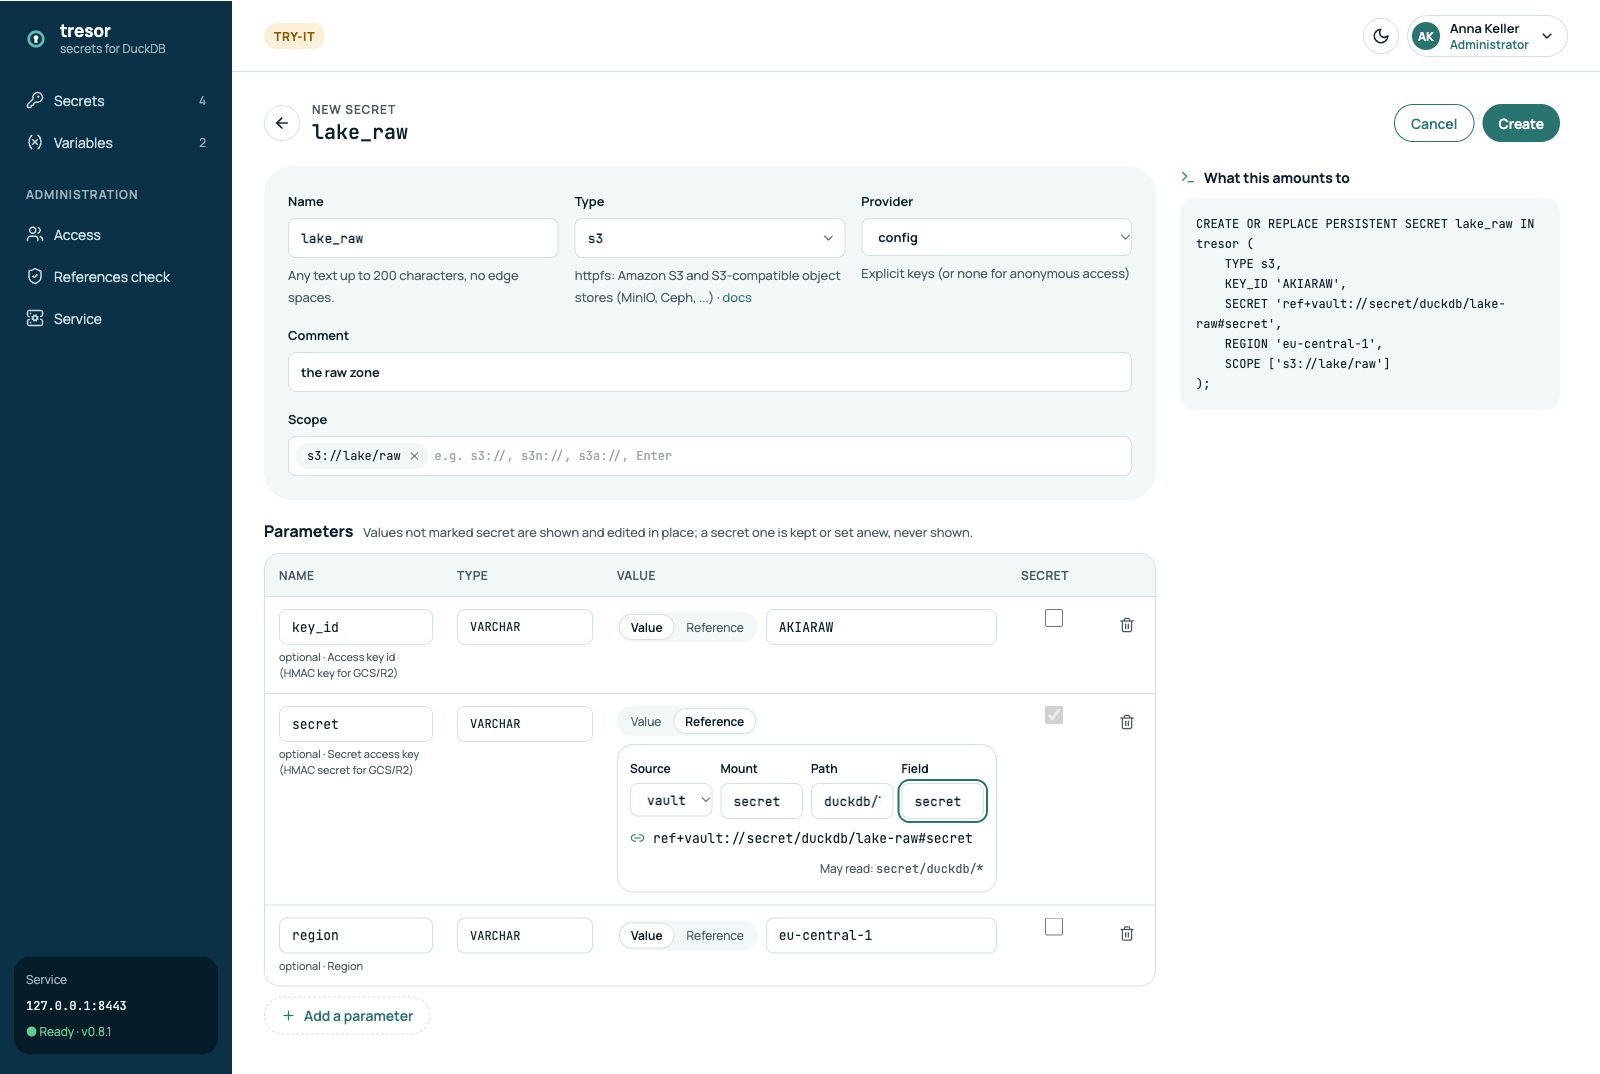
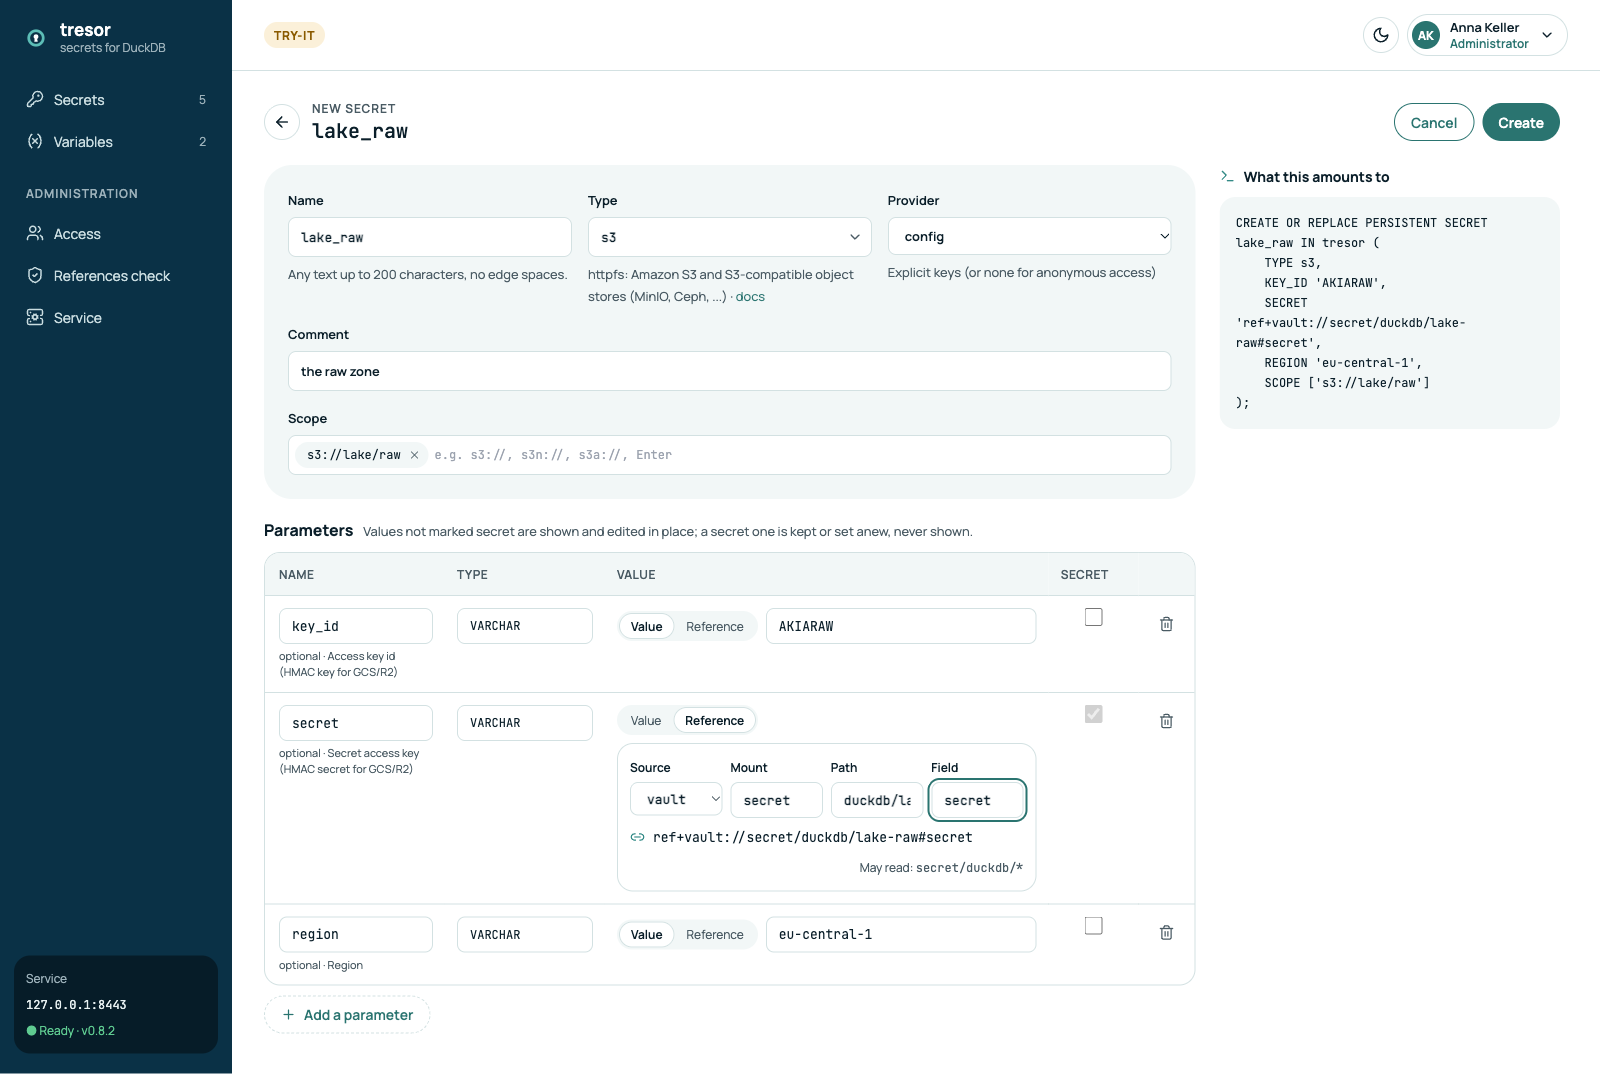
Spec 037: the screenshots retaken on the console as 0.8.2 ships it (#105)
Claude-Session: https://claude.ai/code/session_01SitoG9KHP1uPo8SiAHfJD7

diff --git a/specs/037-console-guide/spec.md b/specs/037-console-guide/spec.md
@@ -6,8 +6,8 @@
 
 ## Summary
 
-A page that walks through the console - what an administrator sees and does - with screenshots of the current
-console (v0.8.1: the tresor mark, the 0.7.5 contrast fix, the 0.8.0 service view).
+A page that walks through the console - what an administrator sees and does - with screenshots of the console
+as 0.8.2 ships it (the tresor mark, the 0.7.5 contrast fix, the 0.8.0 service view, #105's fixes).
 
 ## Design
 
@@ -22,7 +22,7 @@ console (v0.8.1: the tresor mark, the 0.7.5 contrast fix, the 0.8.0 service view
   `vault` source) and sample entries: a referenced secret, one with a claim in a header, a variable made per caller.
   Nothing shown is a real secret; the stand's passwords are not in any shot.
 
-## Findings (the console, to fix apart)
+## Findings (the console; fixed in #105, the screenshots taken with it)
 
 - At 1280 px the editor's parameters table is too narrow beside the SQL preview: a reference's fields shrink to a
   few letters and the table is cut at the right.
